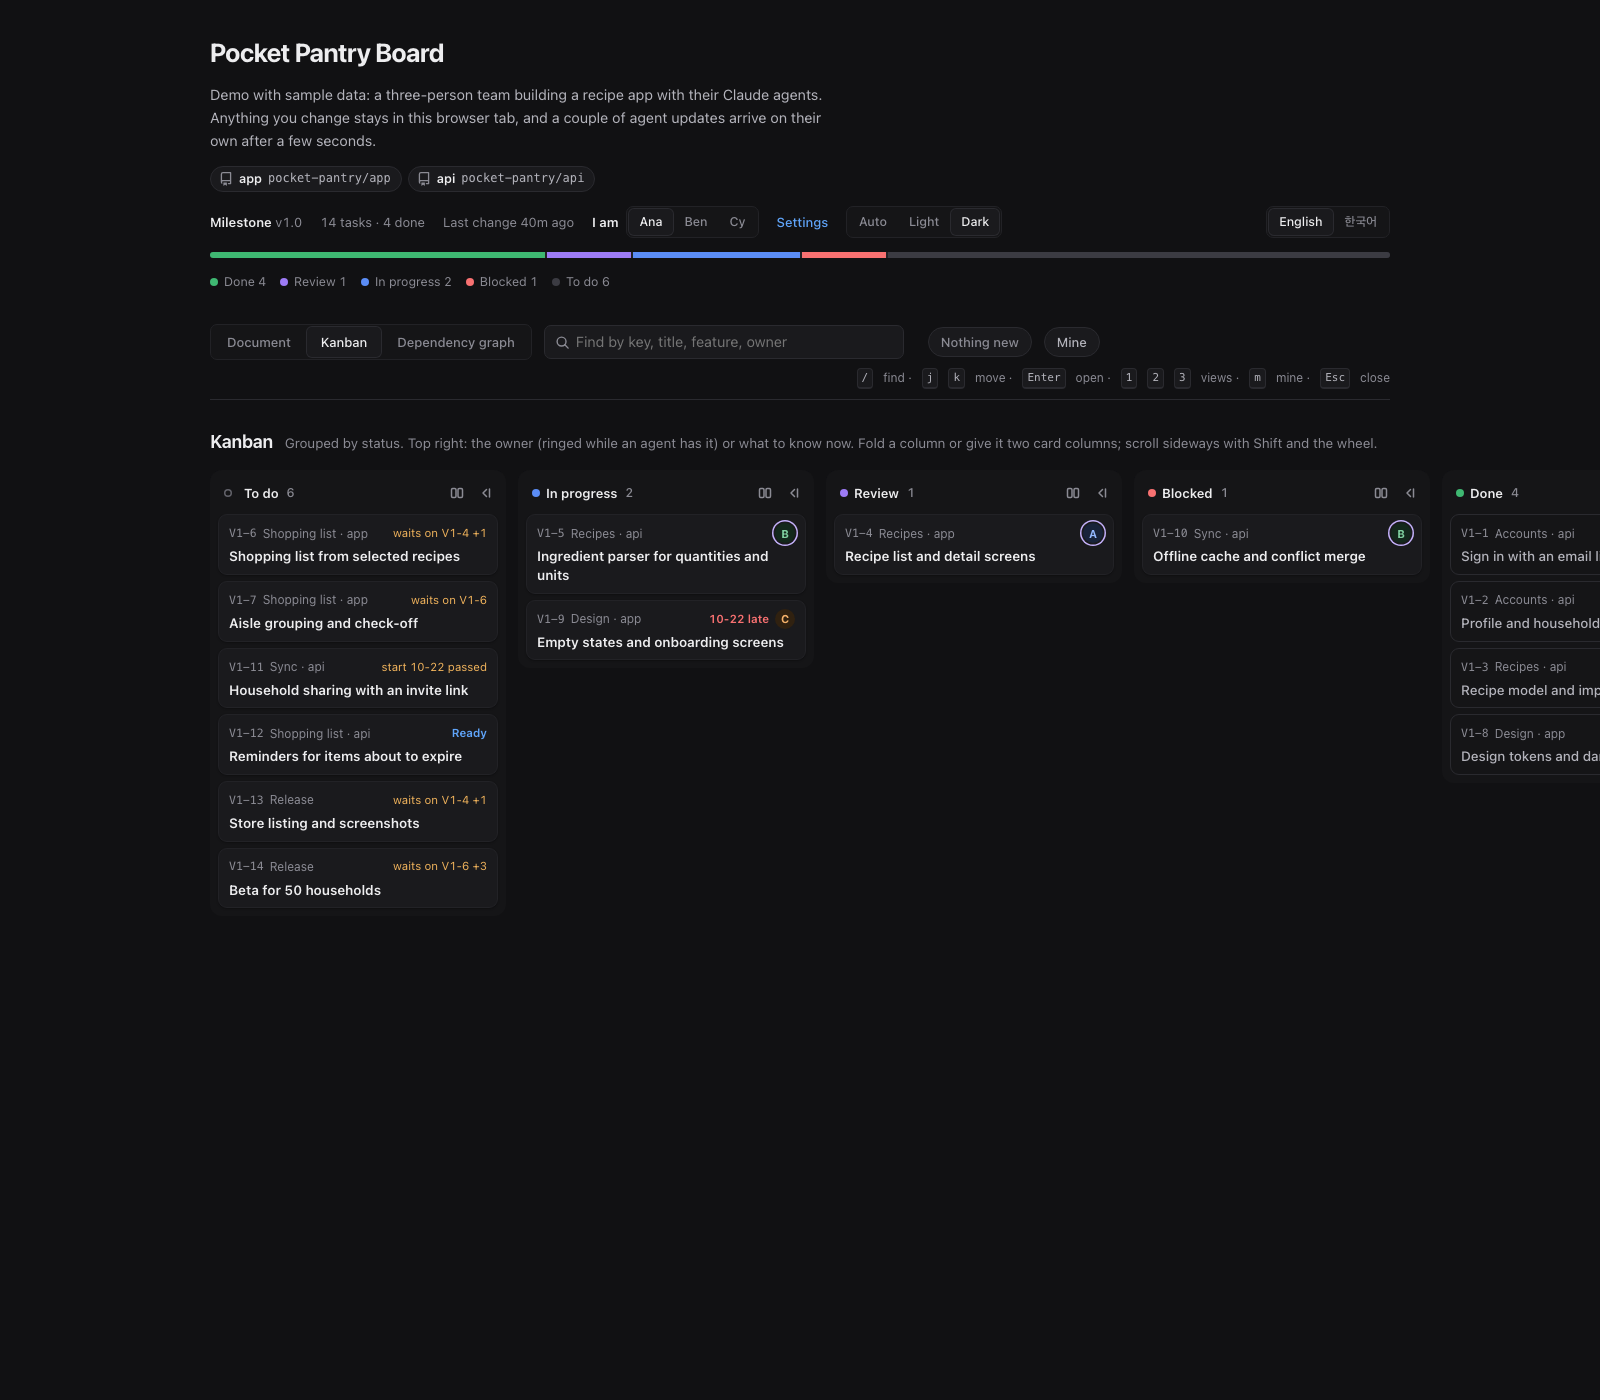
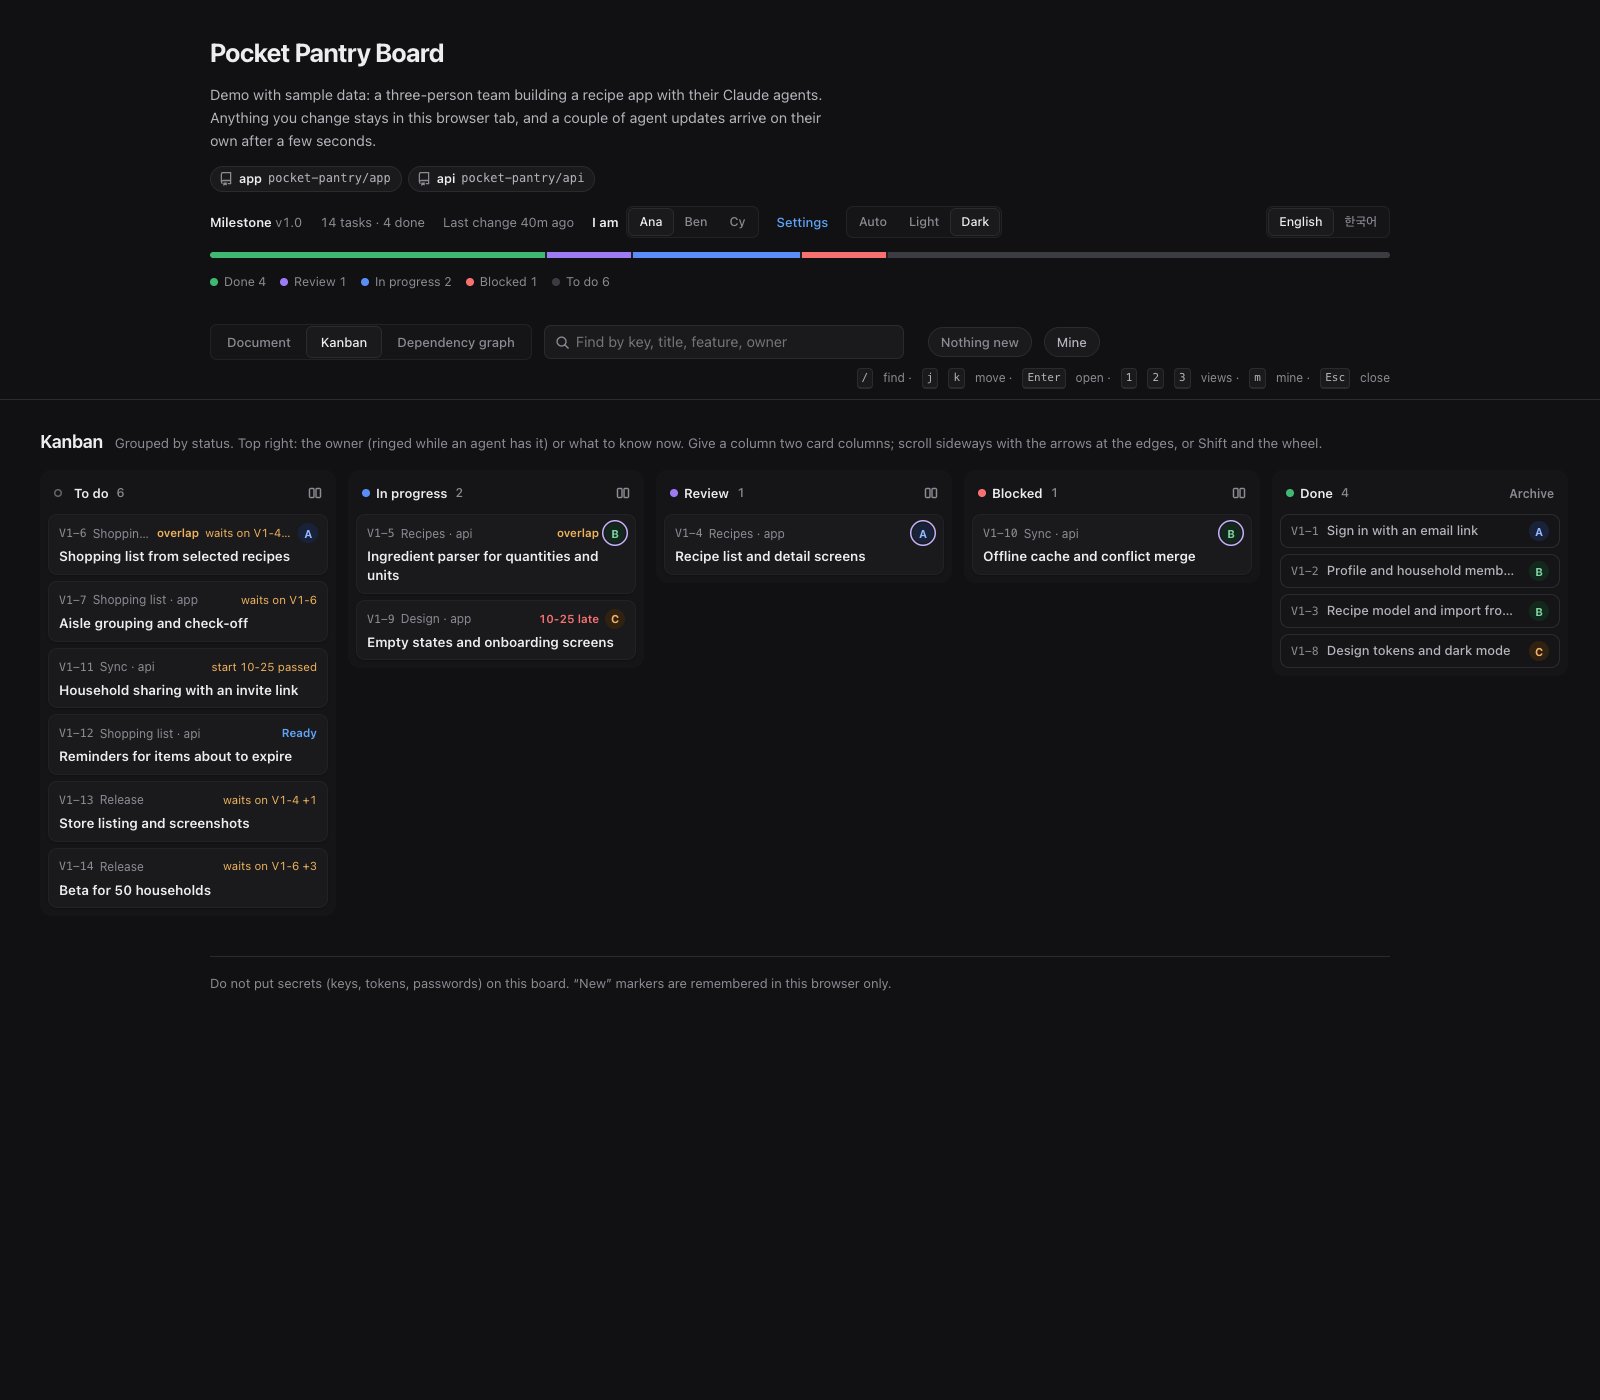
Retake the README screenshots, and show the demo's times as times ago again
The six README screenshots showed the board before 1.21: fold buttons on the kanban, its old description, a cut-off done column. They are retaken from the demo as they were framed before (1600 px wide, English, the theme picked on the page).

Taking them showed every time in the demo as 1-01 00:00. Since the code map change, the demo's builder wrote its "minutes ago" pattern as \d inside a template literal, which drops the backslash, so no sample time was turned into a date. Both time patterns now use [0-9].

diff --git a/server/version.js b/server/version.js
@@ -1,2 +1,2 @@
 // written by scripts/stamp-version.mjs from package.json
-export const VERSION = '1.21.1';
+export const VERSION = '1.21.2';

diff --git a/skills/artiboard/SKILL.md b/skills/artiboard/SKILL.md
@@ -6,7 +6,7 @@ argument-hint: "[setup|adapt|upgrade|move]"
 
 # artiboard
 
-This is artiboard 1.21.1. A self-hosted site names its own version on the first line of `board_start` and in `board_whoami`; when the site is newer, tell your person to update this skill before setting up or changing a board (`git -C "$HOME/.artiboard/src" pull --ff-only`, then copy `skills/artiboard` again, as in FOR_AGENTS.md).
+This is artiboard 1.21.2. A self-hosted site names its own version on the first line of `board_start` and in `board_whoami`; when the site is newer, tell your person to update this skill before setting up or changing a board (`git -C "$HOME/.artiboard/src" pull --ff-only`, then copy `skills/artiboard` again, as in FOR_AGENTS.md).
 
 One page is the board. Its code draws every view (document, kanban, dependency graph) straight from the board's database, so the board stays live without republishing and without spending model tokens.
 
